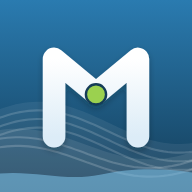
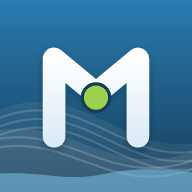
Ícone M: círculo maior

Changed region(s): [[0.4062, 0.4062, 0.5938, 0.5938]]

diff --git a/src/components/Logo.tsx b/src/components/Logo.tsx
@@ -20,7 +20,7 @@ export function LogoMark({ className = 'h-9 w-9', onDark = false }: { className?
 <path d="M48 150V54L100 97" fill="none" stroke="url(#rm-gv)" strokeWidth="28" strokeLinecap="round" strokeLinejoin="round"/>
 <path d="M100 97L152 54V150" fill="none" stroke="url(#rm-rv)" strokeWidth="28" strokeLinecap="round" strokeLinejoin="round"/>
 </g>
-<circle cx="100" cy="98" r="12.5" fill="#9bd14f" stroke="#143c57" strokeWidth="3"/>
+<circle cx="100" cy="102" r="17" fill="#9bd14f" stroke="#143c57" strokeWidth="4"/>
 
     </svg>
   )
